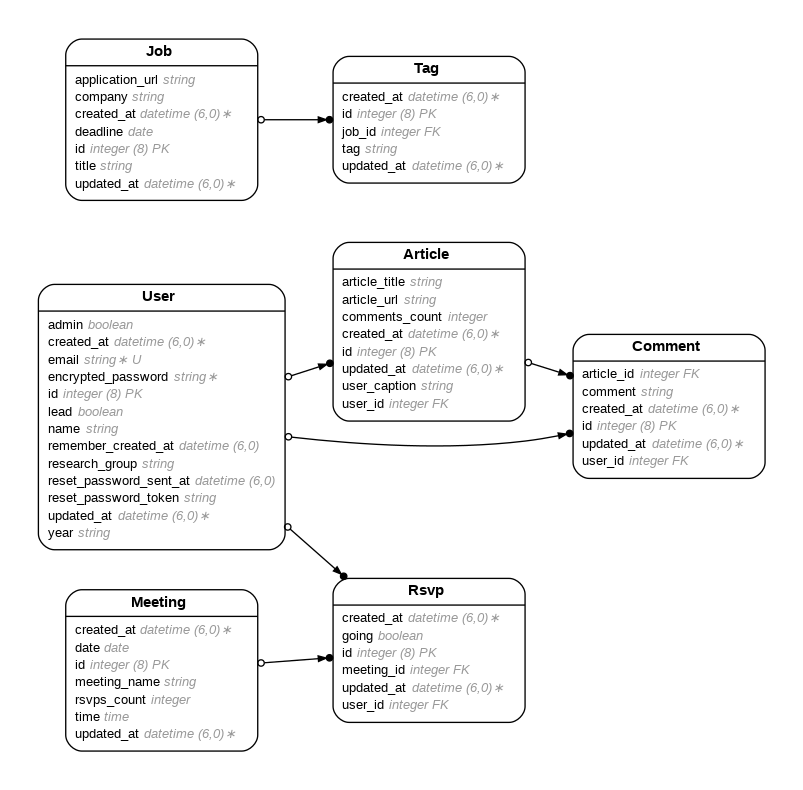
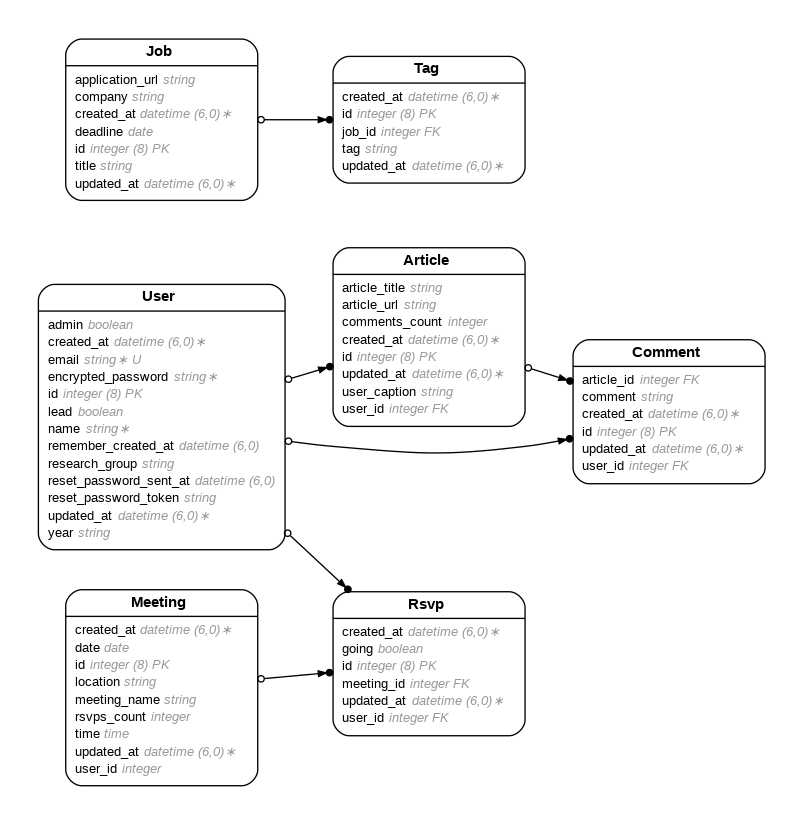
ok great start

diff --git a/app/controllers/meetings_controller.rb b/app/controllers/meetings_controller.rb
@@ -24,6 +24,8 @@ class MeetingsController < ApplicationController
     the_meeting.date = params.fetch("query_date")
     the_meeting.time = params.fetch("query_time")
     the_meeting.meeting_name = params.fetch("query_meeting_name")
+    the_meeting.location = params.fetch("query_location")
+    the_meeting.user_id = current_user.id
 
     if the_meeting.valid?
       the_meeting.save
@@ -40,6 +42,7 @@ class MeetingsController < ApplicationController
     the_meeting.date = params.fetch("query_date")
     the_meeting.time = params.fetch("query_time")
     the_meeting.meeting_name = params.fetch("query_meeting_name")
+    the_meeting.location = params.fetch("query_location")
 
     if the_meeting.valid?
       the_meeting.save

diff --git a/db/schema.rb b/db/schema.rb
@@ -10,7 +10,7 @@
 #
 # It's strongly recommended that you check this file into your version control system.
 
-ActiveRecord::Schema[8.0].define(version: 2026_02_24_003415) do
+ActiveRecord::Schema[8.0].define(version: 2026_02_24_015053) do
   # These are extensions that must be enabled in order to support this database
   enable_extension "pg_catalog.plpgsql"
 
@@ -48,6 +48,8 @@ ActiveRecord::Schema[8.0].define(version: 2026_02_24_003415) do
     t.integer "rsvps_count"
     t.datetime "created_at", null: false
     t.datetime "updated_at", null: false
+    t.string "location"
+    t.integer "user_id"
   end
 
   create_table "rsvps", force: :cascade do |t|

diff --git a/app/models/meeting.rb b/app/models/meeting.rb
@@ -4,13 +4,16 @@
 #
 #  id           :bigint           not null, primary key
 #  date         :date
+#  location     :string
 #  meeting_name :string
 #  rsvps_count  :integer
 #  time         :time
 #  created_at   :datetime         not null
 #  updated_at   :datetime         not null
+#  user_id      :integer
 #
 class Meeting < ApplicationRecord
-  has_many  :rsvps, class_name: "Rsvp", foreign_key: "meeting_id", dependent: :destroy
+  belongs_to :user, class_name: "User", foreign_key: "user_id", optional: true
 
+  has_many  :rsvps, class_name: "Rsvp", foreign_key: "meeting_id", dependent: :destroy
 end

diff --git a/db/migrate/20260224015053_add_location_and_user_id_to_meetings.rb b/db/migrate/20260224015053_add_location_and_user_id_to_meetings.rb
@@ -1,0 +1,6 @@
+class AddLocationAndUserIdToMeetings < ActiveRecord::Migration[8.0]
+  def change
+    add_column :meetings, :location, :string
+    add_column :meetings, :user_id, :integer
+  end
+end
